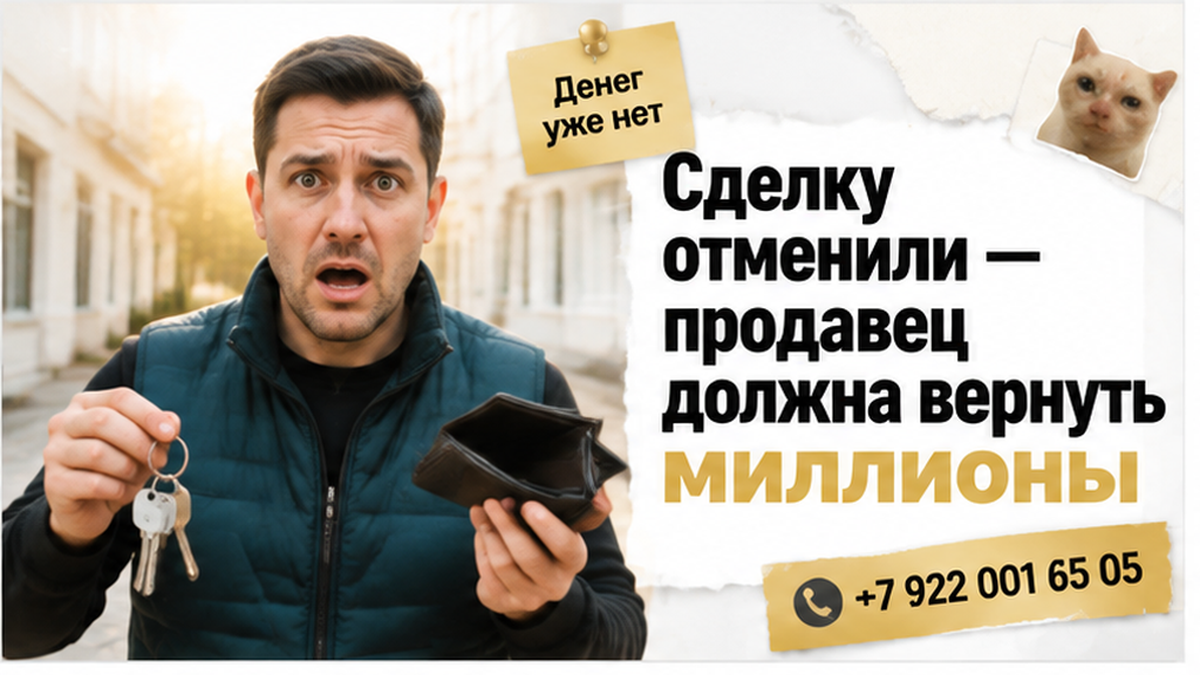
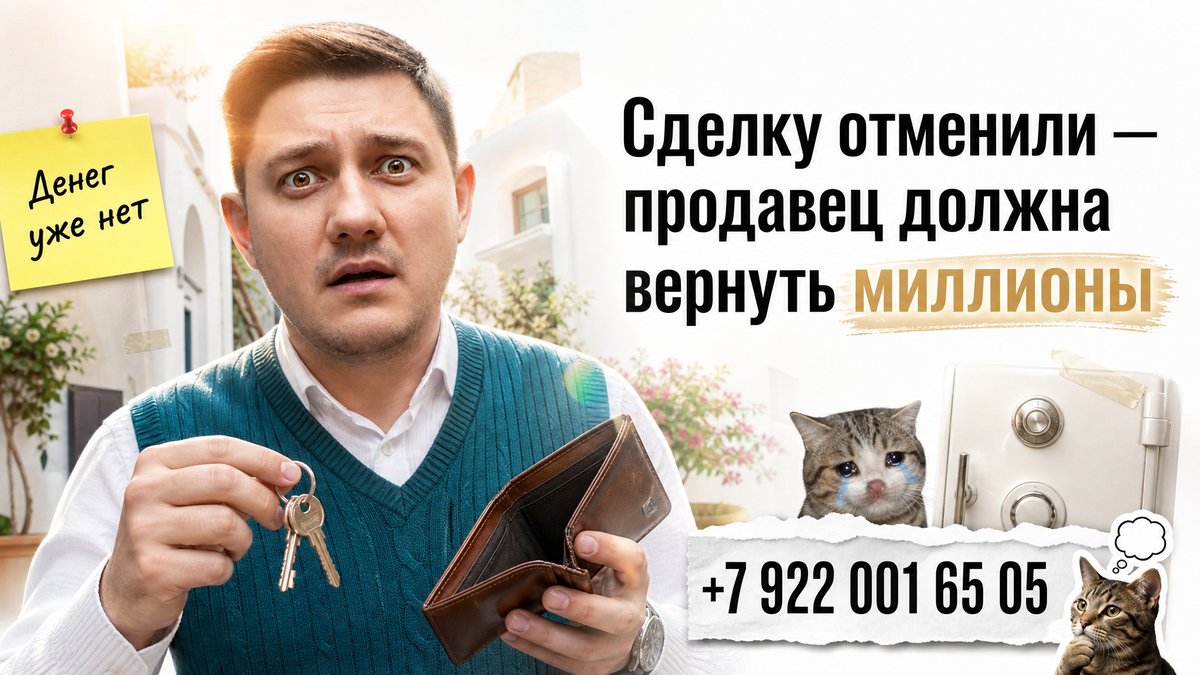
B10: cover budget regen, QA PASS after fixer escape, quality-bar all_pass
Финальные артефакты статьи после solo cover regen и gold typography escape.

diff --git a/memory/blog/articles/B10-v-tyumeni-notarius-udostoveril-sdelku-a-cherez-god-sud-otmenil-prodazhu-prodavca/article.html b/memory/blog/articles/B10-v-tyumeni-notarius-udostoveril-sdelku-a-cherez-god-sud-otmenil-prodazhu-prodavca/article.html
@@ -7,10 +7,10 @@
 </div>
 
 <h2>Как в Тюмени продали квартиру пенсионерки, которую вели по телефону</h2>
-
 <figure class="inline-quad" data-slot="inline_1">
-  <img src="cover/inline-01.png" alt="" loading="lazy">
+  <img src="cover/inline-01.png" alt="Инфографика показывает хронологию телефонного обмана пенсионерки и продажи квартиры в Тюмени; маленький стикер hide_pain_harold в углу." loading="lazy">
 </figure>
+
 
 <p>История начинается не с квартиры, а с переезда. Татьяна Назарова продала жильё в Новом Уренгое и перебралась в Тюмень — на юг, поближе к нормальной зиме, как делают тысячи северян. А потом был звонок.</p>
 
@@ -27,10 +27,10 @@
 <p>Дальше пенсионерка пошла в суд. И началась вторая часть — та, которую покупатели не просчитывают вообще никогда.</p>
 
 <h2>Суд отменил продажу — и продавец должна вернуть 4,3 млн</h2>
-
 <figure class="inline-quad" data-slot="inline_2">
-  <img src="cover/inline-02.png" alt="" loading="lazy">
+  <img src="cover/inline-02.png" alt="Схема движения дела от экспертиз и решения суда к двусторонней реституции и проблеме отсутствующих 4,3 млн." loading="lazy">
 </figure>
+
 
 <p>Весь спор свёлся к одному вопросу: понимала ли женщина значение своих действий в момент подписания договора. Не «обманули ли её вообще» — это и так было очевидно. Именно в момент подписания.</p>
 
@@ -47,10 +47,10 @@
 <p>И вот здесь я останавливаюсь и задаю неудобный вопрос, на который у меня самого нет универсального ответа. <i>Если пожилой продавец странно реагирует на звонки и не отпускает телефон, вы продолжите сделку или остановите её даже после всех проверок?</i> Напишите в комментариях — мне правда интересно, где у людей проходит эта граница. Потому что в жизни её обычно сдвигают в сторону «да ладно, сделка почти закрыта».</p>
 
 <h2>Нотариус не видит звонок: контрастные дела и позиция Верховного суда</h2>
-
 <figure class="inline-quad" data-slot="inline_3">
-  <img src="cover/inline-03.png" alt="" loading="lazy">
+  <img src="cover/inline-03.png" alt="Чек-лист сравнивает дела, где сделки устояли или были отменены, и показывает роль экспертизы и позиции Верховного суда." loading="lazy">
 </figure>
+
 
 <p>После каждой такой истории мне пишут одно и то же: «А если бы через нотариуса — устояло бы?»</p>
 
@@ -79,10 +79,10 @@
 <p>Складываю три дела в один вывод. Сам по себе факт, что продавец после сделки перевёл деньги мошенникам, договор недействительным не делает — Ольга это доказала от обратного. Но стоит добавиться заключению экспертизы о заблуждении, заниженной цене или странностям, которые покупатель мог заметить, — весы уходят в сторону реституции. Психиатрическая оценка перед сделкой, видеозапись подписания, присутствие родственников, проверка истории права, титульное страхование — всё это снижает риск. Гарантии не даёт ни одна из этих мер.</p>
 
 <h2>Что проверить покупателю, если продавец пожилой и телефон не отпускает</h2>
-
 <figure class="inline-quad" data-slot="inline_4">
-  <img src="cover/inline-04.png" alt="" loading="lazy">
+  <img src="cover/inline-04.png" alt="FAQ-инфографика перечисляет проверки перед покупкой квартиры у пожилого продавца, включая телефонные звонки и движение денег." loading="lazy">
 </figure>
+
 
 <p>Теперь практика. Она вырастает ровно из этих трёх дел, а не из общих рассуждений про бдительность.</p>
 
@@ -106,10 +106,10 @@
 </div>
 
 <h2>Таблица: когда сделку оспорят и кто останется с долгом</h2>
-
 <figure class="inline-quad" data-slot="inline_5">
-  <img src="cover/inline-05.png" alt="" loading="lazy">
+  <img src="cover/inline-05.png" alt="Схема показывает, когда после отмены сделки возникает долг и почему судебная реституция не равна реальным деньгам; стикер grumpy_cat в углу." loading="lazy">
 </figure>
+
 
 <p>Три истории выше похожи до той минуты, когда судья берёт в руки заключение экспертов. Пожилой продавец, телефон, перевод денег посторонним в тот же день — набор один и тот же. А развязки противоположные: в Тюмени договор признали недействительным, в Красноуфимском районе нотариальная сделка устояла.</p>
 
@@ -156,10 +156,10 @@
 <p>Обычный покупатель читает третью колонку — «чья квартира». Я читаю четвёртую: у кого остаётся долг. Именно она объясняет, почему «сделку отменили» и «я вернул деньги» — два разных события, разделённые иногда годами.</p>
 
 <h2>Двусторонняя реституция: почему суд не создаёт деньги</h2>
-
 <figure class="inline-quad" data-slot="inline_6">
-  <img src="cover/inline-06.png" alt="" loading="lazy">
+  <img src="cover/inline-06.png" alt="Диаграмма объясняет, почему суд возвращает права и обязанности, но не создаёт деньги на счёте продавца." loading="lazy">
 </figure>
+
 
 <p>Формула звучит справедливо: квартира возвращается продавцу, деньги возвращаются покупателю. Каждый со своим. Расходимся.</p>
 
@@ -176,10 +176,10 @@
 <p>Полтора года — ровно тот срок, что прошёл в тюменском кейсе от продажи летом 2023-го до решения в январе 2025-го. Покупатели прожили его с ключами, замками и планами. Спросите себя честно: готовы вы жить в квартире эти полтора года, зная, что финал пишет экспертиза, которую вы не заказывали и не видели?</p>
 
 <h2>Напишите до аванса — или сразу к делу</h2>
-
 <figure class="inline-quad" data-slot="inline_7">
-  <img src="cover/inline-07.png" alt="" loading="lazy">
+  <img src="cover/inline-07.png" alt="Таблица призывает проверить документы до аванса и показывает сопровождение сделки с риэлтором в Тюмени; стикер disappointed_black_guy в углу." loading="lazy">
 </figure>
+
 
 <p>Если сомневаетесь в сделке — лучше проверить до аванса, чем судиться после регистрации. Пришлите документы — скажу, где риск и что закрыть заранее. Или подключусь в сделку на вторичке в Тюмени.</p>
 
